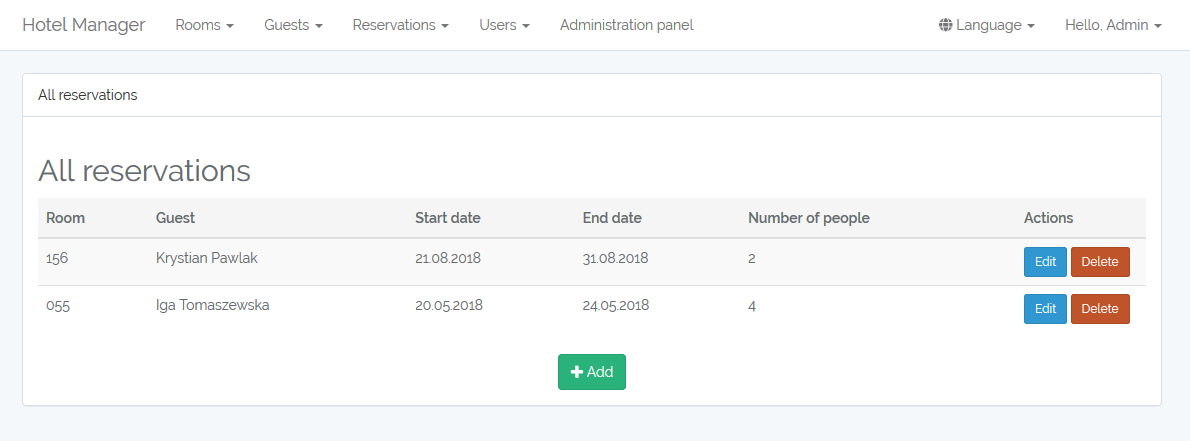
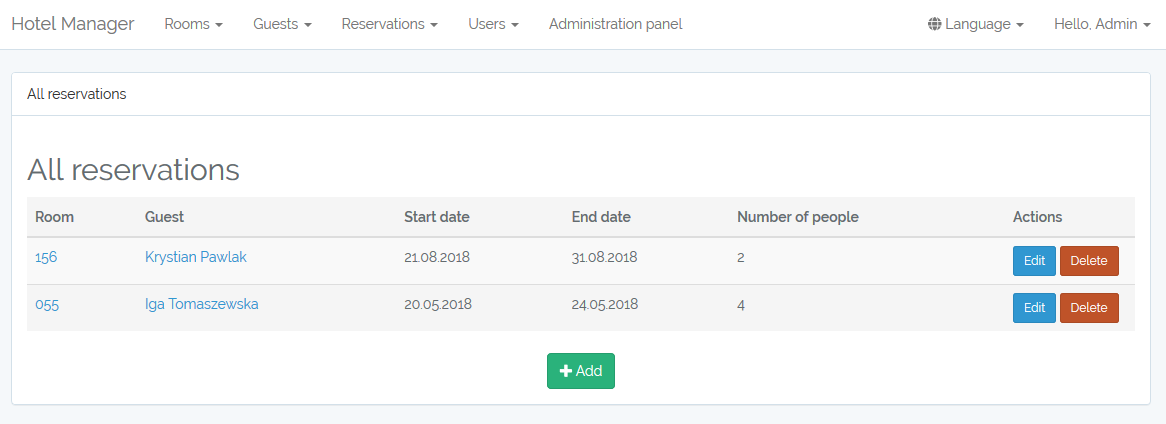
Add links to rooms and guests in reservation table

diff --git a/app/Services/ReservationTableService.php b/app/Services/ReservationTableService.php
@@ -17,13 +17,13 @@ class ReservationTableService implements TableServiceInterface
             [
                 'title' => trans('general.room'),
                 'value' => function (Reservation $data) {
-                    return $data->room->number;
+                    return '<a href="'.route('room.editform', $data->room->id).'">'.$data->room->number.'</a>';
                 },
             ],
             [
                 'title' => trans('general.guest'),
                 'value' => function (Reservation $data) {
-                    return $data->guest->full_name;
+                    return '<a href="'.route('guest.editform', $data->guest->id).'">'.$data->guest->full_name.'</a>';
                 },
             ],
             [
